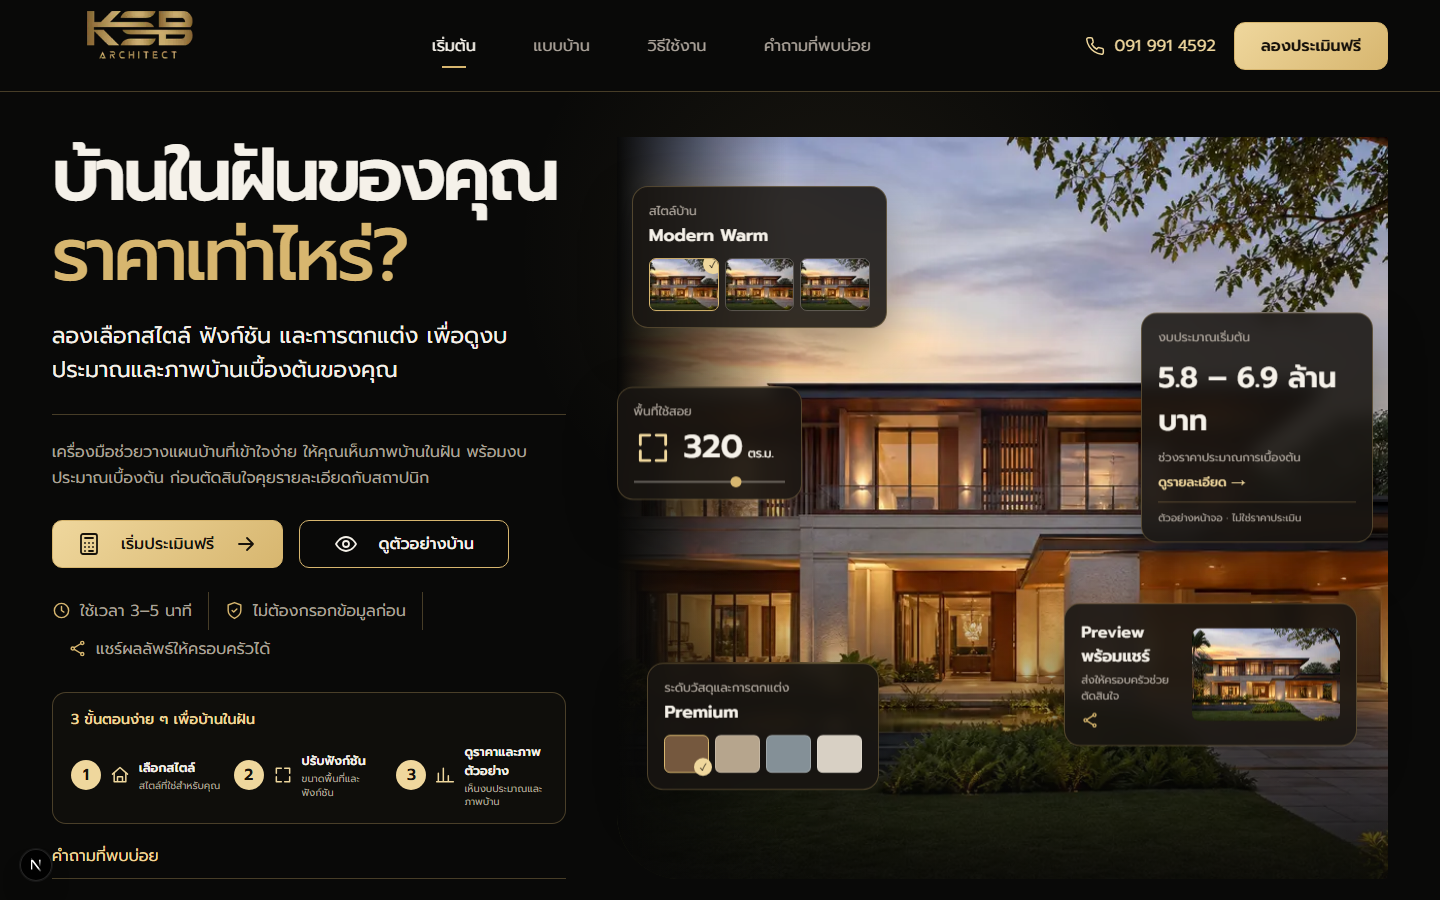
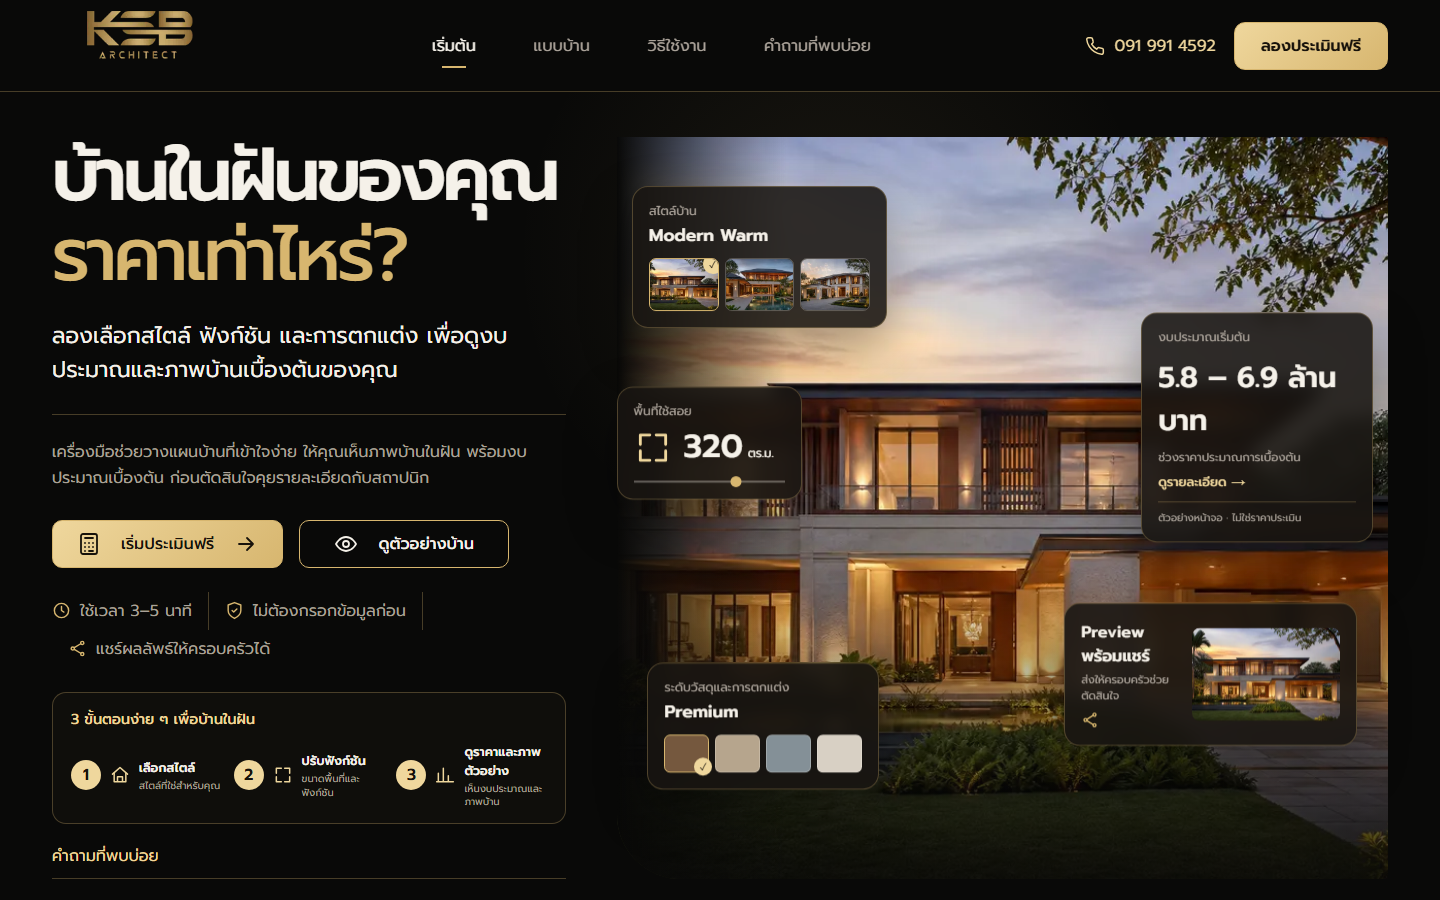
fix: finalize consumer hero QA

Changed region(s): [[0.5, 0.28, 0.625, 0.3422]]

diff --git a/web/src/app/floating-preview-cards.tsx b/web/src/app/floating-preview-cards.tsx
@@ -11,7 +11,7 @@ export function FloatingPreviewCards({ showcase }: { showcase: Showcase }) {
     <div aria-label="ตัวอย่างหน้าจอวางแผนบ้าน" className={styles.previewCards} role="group">
       <div className={`${styles.cardFloat} ${styles.stylePosition}`}><article className={styles.previewCard}>
         <p>{showcase.style.label}</p><strong>{showcase.style.selected}</strong>
-        <div className={styles.styleChoices}>{showcase.style.choices.map((choice, index) => <span className={styles.styleChoice} data-selected={index === 0} key={choice.label}><Image alt={`ตัวอย่างสไตล์ ${choice.label}`} fill sizes="92px" src={choice.image} />{index === 0 ? <i aria-hidden="true">✓</i> : null}</span>)}</div>
+        <div className={styles.styleChoices}>{showcase.style.choices.map((choice, index) => <span className={styles.styleChoice} data-selected={index === 0} key={choice.label}><Image alt={`ตัวอย่างสไตล์ ${choice.label}`} fill sizes="(max-width: 1023px) 30vw, 92px" src={choice.image} />{index === 0 ? <i aria-hidden="true">✓</i> : null}</span>)}</div>
       </article></div>
       <div className={`${styles.cardFloat} ${styles.areaPosition}`}><article className={styles.previewCard}>
         <p>{showcase.area.label}</p><div className={styles.areaValue}><LandingIcon name="space" /><strong>{showcase.area.value}<small>{showcase.area.unit}</small></strong></div><span aria-hidden="true" className={styles.demoSlider}><i /></span>
@@ -23,7 +23,7 @@ export function FloatingPreviewCards({ showcase }: { showcase: Showcase }) {
         <p>{showcase.budget.label}</p><strong>{showcase.budget.value}</strong><span>{showcase.budget.supporting}</span><span className={styles.detailAffordance}>{showcase.budget.detailLabel} →</span><small>{showcase.budget.disclaimer}</small>
       </article></div>
       <div className={`${styles.cardFloat} ${styles.sharePosition}`}><article className={`${styles.previewCard} ${styles.shareCard}`}>
-        <div><strong>{showcase.share.title}</strong><span>{showcase.share.supporting}</span><LandingIcon name="share" /></div><span className={styles.shareThumb}><Image alt={showcase.share.imageAlt} fill sizes="160px" src="/concepts/contemporary-warm-luxury.png" /></span>
+        <div><strong>{showcase.share.title}</strong><span>{showcase.share.supporting}</span><LandingIcon name="share" /></div><span className={styles.shareThumb}><Image alt={showcase.share.imageAlt} fill sizes="(max-width: 1023px) 52vw, 160px" src="/concepts/contemporary-warm-luxury.png" /></span>
       </article></div>
     </div>
   );

diff --git a/web/src/app/landing-page-styles.test.ts b/web/src/app/landing-page-styles.test.ts
@@ -36,7 +36,7 @@ test("keeps floating-card motion within the approved travel, duration, and reduc
   }
 
   const reducedMotion = mediaBlock("(prefers-reduced-motion: reduce)");
-  const reducedMotionCards = rule(reducedMotion, ".cardFloat, .previewCard, .primaryCta, .secondaryCta");
+  const reducedMotionCards = rule(reducedMotion, ".cardFloat, .previewCard, .primaryCta, .secondaryCta, .headerCta");
   expect(reducedMotionCards).toContain("animation: none");
   expect(reducedMotionCards).toContain("transition: none");
 });
@@ -64,4 +64,14 @@ test("scopes the primary touch target and visible focus ring", () => {
 test("gives every hero call-to-action a visible pressed state", () => {
   const pressedCtas = rule(css, ".primaryCta:active, .secondaryCta:active, .headerCta:active");
   expect(pressedCtas).toContain("transform: translateY(1px)");
+});
+
+test("overrides every transformed hover or pressed state when motion is reduced", () => {
+  const reducedMotion = mediaBlock("(prefers-reduced-motion: reduce)");
+  const motionShutdown = rule(reducedMotion, ".cardFloat, .previewCard, .primaryCta, .secondaryCta, .headerCta");
+  expect(motionShutdown).toContain("animation: none");
+  expect(motionShutdown).toContain("transition: none");
+
+  const transformReset = rule(reducedMotion, ".previewCard:hover, .primaryCta:hover, .secondaryCta:hover, .primaryCta:active, .secondaryCta:active, .headerCta:active");
+  expect(transformReset).toContain("transform: none");
 });

diff --git a/web/src/e2e/home-page.e2e.ts b/web/src/e2e/home-page.e2e.ts
@@ -47,6 +47,17 @@ for (const viewport of [{ width: 960, height: 1024 }, { width: 768, height: 1024
   });
 }
 
+for (const [width, expectedPosition] of [[1023, "static"], [1024, "absolute"]] as const) {
+  test(`switches preview cards to ${expectedPosition} positioning at ${width}px`, async ({ page }) => {
+    await page.setViewportSize({ width, height: 1024 });
+    await page.goto("/");
+
+    const card = page.getByRole("group", { name: "ตัวอย่างหน้าจอวางแผนบ้าน" }).locator("[class*='cardFloat']").first();
+    await expect(card).toBeVisible();
+    expect(await card.evaluate((element) => getComputedStyle(element).position)).toBe(expectedPosition);
+  });
+}
+
 test("exposes focus and disables decorative motion when requested", async ({ page }) => {
   await page.emulateMedia({ reducedMotion: "reduce" });
   await page.setViewportSize({ width: 1440, height: 900 });

diff --git a/web/src/app/floating-preview-cards.test.tsx b/web/src/app/floating-preview-cards.test.tsx
@@ -9,5 +9,16 @@ test("uses each style choice's own image and descriptive alt text", () => {
   for (const choice of showcase.style.choices) {
     const image = screen.getByRole("img", { name: `ตัวอย่างสไตล์ ${choice.label}` });
     expect(image).toHaveAttribute("src", expect.stringContaining(encodeURIComponent(choice.image)));
+    expect(image).toHaveAttribute("sizes", "(max-width: 1023px) 30vw, 92px");
   }
+});
+
+test("uses a tablet-aware responsive size for the share thumbnail", () => {
+  const showcase = getLandingContent("th").showcase;
+  render(<FloatingPreviewCards showcase={showcase} />);
+
+  expect(screen.getByRole("img", { name: showcase.share.imageAlt })).toHaveAttribute(
+    "sizes",
+    "(max-width: 1023px) 52vw, 160px",
+  );
 });

diff --git a/web/src/app/landing-page.module.css b/web/src/app/landing-page.module.css
@@ -179,5 +179,6 @@
 .brand:focus-visible, .desktopNav a:focus-visible, .phoneLink:focus-visible, .headerCta:focus-visible, .mobileMenu summary:focus-visible, .mobileMenu nav a:focus-visible, .primaryCta:focus-visible, .secondaryCta:focus-visible, .faq summary:focus-visible { outline: 3px solid var(--focus); outline-offset: 3px; }
 
 @media (prefers-reduced-motion: reduce) {
-  .cardFloat, .previewCard, .primaryCta, .secondaryCta { animation: none; transition: none; transform: none; }
+  .cardFloat, .previewCard, .primaryCta, .secondaryCta, .headerCta { animation: none; transition: none; }
+  .previewCard:hover, .primaryCta:hover, .secondaryCta:hover, .primaryCta:active, .secondaryCta:active, .headerCta:active { transform: none; }
 }

diff --git a/docs/superpowers/plans/2026-08-10-consumer-configurator-hero.md b/docs/superpowers/plans/2026-08-10-consumer-configurator-hero.md
@@ -372,7 +372,7 @@ export function HouseShowcase({ showcase }: { showcase: LandingContent["showcase
   return (
     <div className={styles.houseArea} id="house-preview">
       <div className={styles.houseImage}>
-        <Image alt={showcase.imageAlt} fill preload sizes="(max-width: 899px) 100vw, 60vw" src="/concepts/contemporary-warm-luxury.png" />
+        <Image alt={showcase.imageAlt} fill preload sizes="(max-width: 1023px) 100vw, 60vw" src="/concepts/contemporary-warm-luxury.png" />
       </div>
       <FloatingPreviewCards showcase={showcase} />
     </div>
@@ -629,7 +629,7 @@ Rewrite `landing-page.module.css` with these exact structural rules, then add co
   .previewCard { padding: 13px; }
 }
 
-@media (max-width: 899px) {
+@media (max-width: 1023px) {
   .header { min-height: 78px; grid-template-columns: 130px 1fr; padding-inline: 20px; }
   .brand { width: 128px; height: 60px; }
   .desktopNav, .phoneLink { display: none; }
